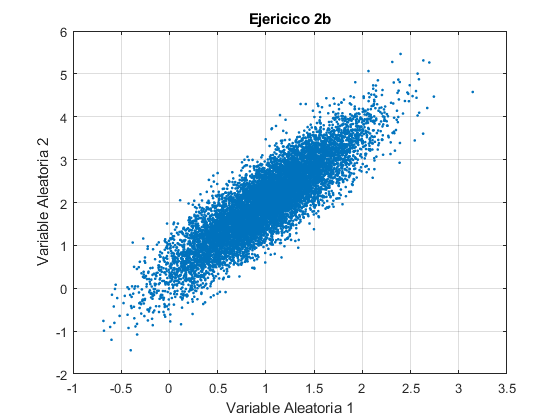
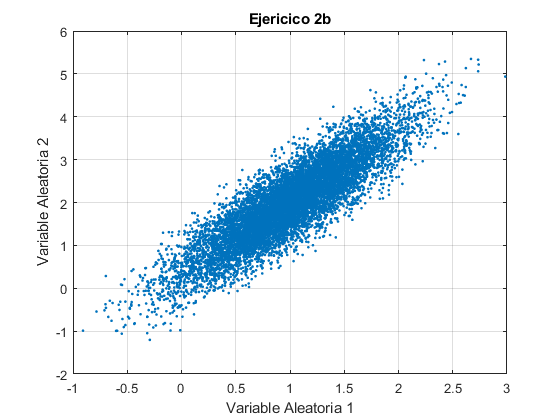
Agergue la parte de montecarlo

diff --git a/Ejercicio 2/Ejercicio2.m b/Ejercicio 2/Ejercicio2.m
@@ -2,8 +2,8 @@
 mu1= 1;
 mu2= 2;
 sigma1 = 0.5;
-sigma2 = 0.5;
-rho = 0.5;
+sigma2 = 1;
+rho = 0.8;
 a11 = 0;
 a12 = sigma1;
 a21 = sigma2*sqrt(1-rho);
@@ -13,8 +13,15 @@ n = 10000; %Repeticiones del experimento
 %Genero 2 Variables aleatorias Gaussianas independientes e identicamente
 %distribuidas
 
-X1 = mvnrnd(0,1,n);
-X2 = mvnrnd(0,1,n);
+%X1 = mvnrnd(0,1,n);
+%X2 = mvnrnd(0,1,n);
+
+U1 = rand(10000,1);
+U2 = rand(10000,1);
+R = sqrt(2.*log(1./(1.-U1)));
+X1 = R .* cos(U2 * 2 *pi);
+X2 = R .* sin(U2 * 2 * pi);
+
 
 
 Y1 = a11*X1 + a12*X2 + mu1;
@@ -23,6 +30,6 @@ Y2 = a21*X1 + a22*X2 + mu2;
 plot(Y1,Y2,'.');
 xlabel("Variable Aleatoria 1");
 ylabel("Variable Aleatoria 2");
-title("Ejericico 2a");
+title("Ejericico 2b");
 grid on;
 
